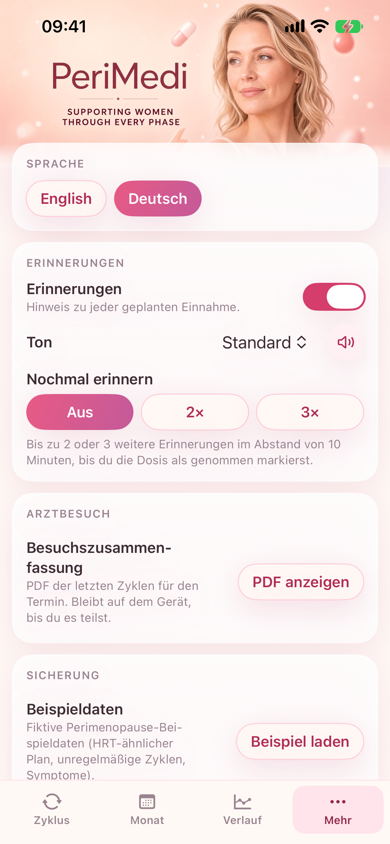
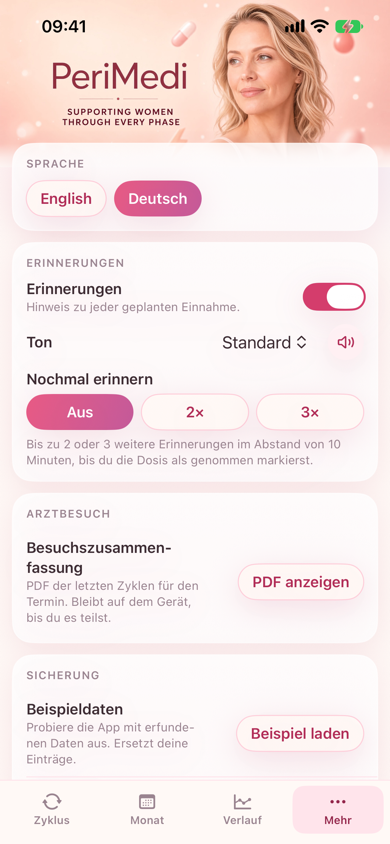
fix(more): use plain row subtitles (#180)
* fix(more): use plain row subtitles

The grey line under each More row is the only explanation of that row.
Reminders, the visit summary, and sample data now say what they do.
Sample data says it replaces her entries.
Export and import name the JSON file and say that file can be imported again.

* fix(more): keep Ausprobieren whole

The German sample line split that word beside the load button on iPhone 17e. Word joiners between the letters stop the split. The words on screen stay the same.

* fix(more): name the backup on import

Import said she picks a file she shared. She picks a backup she exported. Sample, export, and import use the new sentences in both languages. The German sample sentence is plain text.

Changed region(s): [[0.0615, 0.8318, 0.4923, 0.9242], [0.6154, 0.8626, 0.9231, 0.8934]]

diff --git a/ios/PeriMedi/App/L10n.swift b/ios/PeriMedi/App/L10n.swift
@@ -295,7 +295,7 @@ enum L10n {
         "period.deleteConfirm": "Delete this period?",
         "period.deleteNamed": "Delete {{name}}?",
         "more.reminders": "Reminders",
-        "more.remindersBody": "Notify at each planned take time.",
+        "more.remindersBody": "A reminder at each dose time.",
         "more.remindersDenied": "Notifications are off in iOS Settings, so reminders cannot fire.",
         "more.remindersSettings": "Settings",
         "more.reminderSound": "Sound",
@@ -311,17 +311,17 @@ enum L10n {
         "more.privacyPolicy": "Privacy Policy",
         "more.disclaimer": "Personal companion — not medical advice.",
         "more.sampleTitle": "Sample data",
-        "more.sampleBody": "Fictional perimenopause sample (HRT-style plan, irregular cycles, symptoms).",
+        "more.sampleBody": "Try the app with made-up data. Replaces your entries.",
         "more.sampleLabel": "Load sample",
         "more.sampleConfirm": "Replace all local data with the perimenopause sample set?",
         "more.sampleLoaded": "Perimenopause sample data loaded.",
         "more.exportTitle": "Export",
-        "more.exportBody": "Share a JSON backup.",
+        "more.exportBody": "A JSON backup of your entries to save or share.",
         "more.exportLabel": "Export",
         "more.exportDone": "Backup ready to share.",
         "more.exportFailed": "Export failed",
         "more.importTitle": "Import",
-        "more.importBody": "Restore from a backup file.",
+        "more.importBody": "Replaces all your entries with a JSON backup you exported.",
         "more.importLabel": "Choose file",
         "more.importDone": "Import complete.",
         "more.importFailed": "Import failed",
@@ -578,17 +578,17 @@ enum L10n {
         "more.privacyPolicy": "Datenschutzerklärung",
         "more.disclaimer": "Persönliche Begleitung — kein medizinischer Rat.",
         "more.sampleTitle": "Beispieldaten",
-        "more.sampleBody": "Fiktive Perimenopause-Beispieldaten (HRT-ähnlicher Plan, unregelmäßige Zyklen, Symptome).",
+        "more.sampleBody": "Probiere die App mit erfundenen Daten aus. Ersetzt deine Einträge.",
         "more.sampleLabel": "Beispiel laden",
         "more.sampleConfirm": "Alle lokalen Daten durch das Beispiel ersetzen?",
         "more.sampleLoaded": "Beispieldaten geladen.",
         "more.exportTitle": "Exportieren",
-        "more.exportBody": "JSON-Sicherung teilen.",
+        "more.exportBody": "Eine JSON-Sicherung deiner Einträge zum Speichern oder Teilen.",
         "more.exportLabel": "Exportieren",
         "more.exportDone": "Sicherung zum Teilen bereit.",
         "more.exportFailed": "Export fehlgeschlagen",
         "more.importTitle": "Importieren",
-        "more.importBody": "Aus einer Sicherungsdatei wiederherstellen.",
+        "more.importBody": "Ersetzt alle deine Einträge durch eine exportierte JSON-Sicherung.",
         "more.importLabel": "Datei wählen",
         "more.importDone": "Import abgeschlossen.",
         "more.importFailed": "Import fehlgeschlagen",

diff --git a/ios/PeriMedi/Features/More/VisitStrings.swift b/ios/PeriMedi/Features/More/VisitStrings.swift
@@ -7,7 +7,7 @@ enum VisitStrings {
     static let en: [String: String] = [
         "more.visit": "Doctor visit",
         "more.visitTitle": "Visit summary",
-        "more.visitBody": "PDF of recent cycles for an appointment. Stays on this device until you share it.",
+        "more.visitBody": "Your recent cycles as a PDF for your doctor. Stays on this device until you share it.",
         "more.visitLabel": "View PDF",
         "more.visitFailed": "Couldn’t create the PDF.",
         "visit.title": "PeriMedi visit summary",
